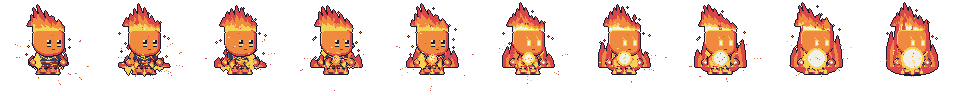
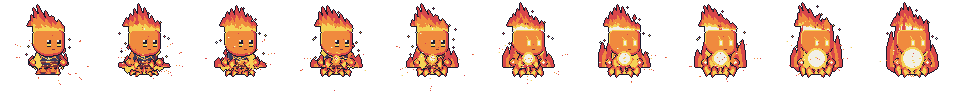
Inferno ragged base + ground glow; live-target preview, client-view test flags, hound concept
Claude-Session: https://claude.ai/code/session_01J8LgTLVYzThXjNSRVhWqep

diff --git a/tools/sprites/hound_concepts.py b/tools/sprites/hound_concepts.py
@@ -1,0 +1,180 @@
+"""Gloom Hound redesign concept: side run frames and front-facing run frames beside Shadow for scale. Nothing is written
+into assets/. Run: tools/sprites/.venv/bin/python tools/sprites/hound_concepts.py [out.png]
+Only palette colours; light from the top left like the fighters (Canvas.part rims lit / shaded edges)."""
+import math
+import sys
+from pathlib import Path
+
+sys.path.insert(0, str(Path(__file__).resolve().parent))
+
+from PIL import Image, ImageDraw  # noqa: E402
+
+import generate as g  # noqa: E402
+from generate import E, L, P, R, Canvas, outline  # noqa: E402
+from palette import OUTLINE, PINK, PINK_L, SHADOW, VIOLET, VIOLET_D, VIOLET_L, WHITE  # noqa: E402
+
+G = 68  # row of the paws (96 px canvas)
+BODY = VIOLET
+FAR = VIOLET_D
+
+
+def dot(c: Canvas, x: float, y: float, col) -> None:
+    x, y = round(x), round(y)
+    if 2 <= x < c.size - 2 and 2 <= y < c.size - 2:
+        c.dot(x, y, col)
+
+
+def side_leg(c: Canvas, hip, ph: float, front: bool, col, paw_col) -> None:
+    swing, lift = math.sin(ph), max(0.0, math.cos(ph))
+    paw = (round(hip[0] + 9 * swing), round(G - 7 * lift))
+    # knee bends forward on the front legs while the foot is back, backwards on the hind legs (a hound's hock)
+    mid = ((hip[0] + paw[0]) / 2, (hip[1] + paw[1]) / 2)
+    bend = (3 if front else -3) * (0.6 + 0.4 * lift)
+    knee = (round(mid[0] + bend), round(mid[1] - 1 - 2 * lift))
+    c.part(L([hip, knee, paw], 3), col)
+    c.flat(R((paw[0] - 1, paw[1] + 1, paw[0] + 3, paw[1] + 1)), paw_col)  # paw
+
+
+def hound_side(phase: float, jaw: int = 0, k: int = 0) -> Canvas:
+    c = Canvas(96)
+    bob = -round(abs(math.sin(phase)) * 1.5)
+    gy = G + bob
+    # smoke streaming off the back and tail, behind everything
+    for i in range(6):
+        dot(c, 24 - i * 3 - (k % 2) * 2, gy - 36 + i * 2 + math.sin(phase + i * 1.4) * 2, (VIOLET_D, VIOLET, PINK_L)[i % 3 if i < 5 else 1])
+    # tail: a long plume streaming back and up, tapering into a wisp
+    tw = round(math.sin(phase) * 2)
+    c.part(L([(24, gy - 27), (17, gy - 31), (12, gy - 38 + tw), (11, gy - 46 + tw)], 4), BODY)
+    c.part(L([(12, gy - 38 + tw), (11, gy - 46 + tw)], 2), VIOLET_L)
+    dot(c, 10, gy - 49 + tw, VIOLET_L)
+    dot(c, 9, gy - 51 + tw, PINK_L)
+    # far legs (darker), then the body, then the near legs
+    side_leg(c, (31, gy - 17), phase + math.pi, False, FAR, OUTLINE)
+    side_leg(c, (59, gy - 17), phase + math.pi + 0.7, True, FAR, OUTLINE)
+    c.part(P([(24, gy - 26), (33, gy - 33), (47, gy - 34), (59, gy - 33), (65, gy - 27), (64, gy - 17), (58, gy - 14),
+              (47, gy - 17), (36, gy - 15), (27, gy - 13), (21, gy - 19)]), BODY)
+    c.part(E((20, gy - 28, 38, gy - 11)), BODY)  # round haunch
+    c.part(E((54, gy - 33, 68, gy - 14)), BODY)  # deep chest
+    # shading: lit back, dithered belly, a lit shoulder and haunch
+    for x in range(30, 62, 2):
+        dot(c, x, gy - 34 + (x // 2) % 2, VIOLET_L)
+    for x in range(30, 60, 2):
+        dot(c, x + (x // 2) % 2, gy - 17, VIOLET_D)
+        dot(c, x, gy - 18, VIOLET_D if (x // 2) % 2 else BODY)
+    c.flat(L([(23, gy - 25), (27, gy - 29)], 1), VIOLET_L)
+    c.flat(L([(57, gy - 30), (62, gy - 28)], 1), VIOLET_L)
+    # mane: jagged spikes down the neck and spine
+    for i, (mx, my) in enumerate(((60, gy - 34), (54, gy - 35), (48, gy - 35), (42, gy - 34))):
+        c.part(P([(mx - 2, my + 1), (mx + 2, my + 1), (mx - 1, my - 4 - i % 2)]), VIOLET_D)
+    side_leg(c, (29, gy - 16), phase, False, BODY, VIOLET_D)
+    side_leg(c, (57, gy - 16), phase + 0.7, True, BODY, VIOLET_D)
+    # neck and head, facing right: long snout, pointed ears, open jaw
+    c.part(P([(56, gy - 34), (66, gy - 38), (70, gy - 28), (62, gy - 22)]), BODY)
+    hy = gy - 32
+    for ex0, ex1 in ((64, 62), (70, 71)):  # two pointed ears
+        c.part(P([(ex0, hy - 4), (ex1, hy - 16), (ex0 + 6, hy - 4)]), BODY)
+    c.flat(L([(65, hy - 6), (64, hy - 11)], 1), VIOLET_L)
+    c.part(P([(63, hy - 5), (72, hy - 7), (79, hy - 3), (88, hy + 1), (88, hy + 4), (79, hy + 6), (68, hy + 6)]), BODY)  # skull + snout
+    c.flat(L([(72, hy - 6), (79, hy - 3), (87, hy)], 1), VIOLET_L)  # lit bridge
+    jd = jaw
+    c.part(P([(70, hy + 5), (86, hy + 4 + jd), (87, hy + 6 + jd), (76, hy + 11 + jd), (68, hy + 8)]), BODY)  # lower jaw
+    c.flat(L([(72, hy + 5), (86, hy + 5 + jd)], 1), OUTLINE)  # mouth line
+    if jaw:
+        for tx in (79, 83):
+            c.dot(tx, hy + 5, WHITE)
+            c.dot(tx + 1, hy + 4 + jd, WHITE)
+    c.flat(R((75, hy - 3, 78, hy - 2)), PINK_L)  # glowing eye: a slit with a white core
+    c.dot(77, hy - 3, WHITE)
+    c.dot(74, hy - 4, VIOLET_L)
+    c.dot(87, hy + 1, VIOLET_L)  # nose
+    return c
+
+
+def hound_front(phase: float, k: int = 0) -> Canvas:
+    c = Canvas(96)
+    bob = -round(abs(math.sin(phase)) * 2)
+    gy = G + bob
+    cx = 48
+    for i in range(5):  # smoke rising off the back
+        dot(c, cx - 14 + i * 7 + math.sin(phase + i) * 2, gy - 44 - (i % 2) * 5 - (k % 2) * 2, (VIOLET, VIOLET_D, PINK_L)[i % 3])
+    c.part(L([(cx - 12, gy - 22), (cx - 20, gy - 32), (cx - 21, gy - 42)], 3), BODY)  # tail behind, up on the left
+    dot(c, cx - 21, gy - 45, VIOLET_L)
+    # hind legs, small and wide behind the chest
+    sw = math.sin(phase)
+    for side, ph in ((-1, phase + math.pi), (1, phase)):
+        lift = max(0.0, math.cos(ph))
+        c.part(L([(cx + side * 12, gy - 17), (cx + side * 15, gy - 9 - lift * 3), (cx + side * 13, gy - 3 - lift * 4)], 3), FAR)
+    # chest and shoulders
+    c.part(P([(cx - 15, gy - 32), (cx + 15, gy - 32), (cx + 17, gy - 14), (cx + 6, gy - 10), (cx - 6, gy - 10), (cx - 17, gy - 14)]), BODY)
+    c.part(E((cx - 14, gy - 34, cx + 14, gy - 16)), BODY)
+    c.flat(L([(cx - 12, gy - 31), (cx - 4, gy - 33)], 1), VIOLET)
+    for x in range(cx - 12, cx + 13, 2):  # dithered belly shade
+        dot(c, x, gy - 12 + (x // 2) % 2, OUTLINE)
+    for i in range(3):  # mane tufts on the shoulders
+        c.part(P([(cx - 15 + i * 3, gy - 31), (cx - 11 + i * 3, gy - 31), (cx - 14 + i * 3, gy - 38)]), VIOLET)
+        c.part(P([(cx + 15 - i * 3, gy - 31), (cx + 11 - i * 3, gy - 31), (cx + 14 - i * 3, gy - 38)]), VIOLET)
+    # front legs reaching alternately toward us
+    for side, ph in ((-1, phase), (1, phase + math.pi)):
+        s, lift = math.sin(ph), max(0.0, math.cos(ph))
+        top = (cx + side * 11, gy - 22)
+        paw = (cx + side * (11 + 2 * lift), round(gy - 2 - 4 * lift + 2 * s))
+        c.part(L([top, (top[0] + side * 2, (top[1] + paw[1]) // 2), paw], 3), BODY)
+        c.flat(R((paw[0] - 2, paw[1] + 1, paw[0] + 2, paw[1] + 1)), VIOLET)
+    # head: wide skull, pointed ears, a short snout pointing at us
+    hy = gy - 42
+    for side in (-1, 1):
+        c.part(P([(cx + side * 4, hy - 7), (cx + side * 12, hy - 20), (cx + side * 13, hy - 5)]), BODY)
+        c.flat(L([(cx + side * 10, hy - 7), (cx + side * 11, hy - 15)], 1), VIOLET_L)
+    c.part(E((cx - 13, hy - 10, cx + 13, hy + 9)), BODY)
+    c.flat(L([(cx - 9, hy - 8), (cx + 2, hy - 9)], 1), VIOLET)
+    c.part(E((cx - 6, hy - 1, cx + 6, hy + 12)), VIOLET_D)  # snout
+    c.flat(R((cx - 2, hy + 1, cx + 1, hy + 2)), VIOLET_L)  # nose
+    c.flat(L([(cx, hy + 4), (cx, hy + 7)], 1), OUTLINE)
+    for side in (-1, 1):  # glowing slanted eyes
+        c.flat(L([(cx + side * 3, hy - 3), (cx + side * 8, hy - 5)], 1), PINK_L)
+        c.dot(cx + side * 6, hy - 4, WHITE)
+    return c
+
+
+def finish(c: Canvas) -> Image.Image:
+    return outline(c.img)
+
+
+def main() -> None:
+    out_path = Path(sys.argv[1]) if len(sys.argv) > 1 else Path("hound_concept.png")
+    sheet = g.Image.open(Path(__file__).resolve().parents[2] / "assets/sprites/shadow.png").convert("RGBA")
+    shadow = sheet.crop((0, 0, 96, 96))
+    cells = [("Shadow", shadow, None)]
+    for k in range(4):
+        cells.append((f"run {k + 1}", finish(hound_side(math.tau * k / 6 * 1.5, jaw=0, k=k)), "side"))
+    cells.append(("bite", finish(hound_side(0.9, jaw=5)), "side"))
+    for k in range(2):
+        cells.append((f"front {k + 1}", finish(hound_front(math.tau * k / 2, k=k)), "front"))
+    S = 8
+    box = (6, 14, 92, 76)  # crop 86 x 62
+    w, h = box[2] - box[0], box[3] - box[1]
+    bg = (58, 64, 74)
+    img = Image.new("RGB", (len(cells) * w * S // 2, h * S // 2 * 2 + 40), bg)
+    # two rows of 4 cells at 8x would be huge, so lay them out in 2 rows
+    cols = 4
+    rows = (len(cells) + cols - 1) // cols
+    img = Image.new("RGB", (cols * w * S, rows * (h * S + 24)), bg)
+    d = ImageDraw.Draw(img)
+    for i, (label, im, kind) in enumerate(cells):
+        x0, y0 = (i % cols) * w * S, (i // cols) * (h * S + 24)
+        layer = Image.new("RGBA", (96, 96), bg + (255,))
+        shade = Image.new("RGBA", (96, 96), (0, 0, 0, 0))
+        sd = ImageDraw.Draw(shade)
+        feet = 66 if kind is None else G + 1
+        rx, ry = (13, 5) if kind != "side" else (22, 5)
+        sd.ellipse((48 - rx, feet - ry + 2, 48 + rx, feet + ry + 2), fill=(0, 0, 0, 77))  # the fighters' soft 0.3 ellipse
+        layer.alpha_composite(shade)
+        layer.alpha_composite(im)
+        img.paste(layer.convert("RGB").crop(box).resize((w * S, h * S), Image.NEAREST), (x0, y0))
+        d.text((x0 + 6, y0 + h * S + 4), label, fill=(255, 230, 120))
+    img.save(out_path)
+    print("wrote", out_path)
+
+
+if __name__ == "__main__":
+    main()

diff --git a/tools/sprites/generate.py b/tools/sprites/generate.py
@@ -726,6 +726,7 @@ def flint(step=None, t=0, heat=0.0):
         low.part(E((32 - rx, 49 - ry, 32 + rx, 49 + ry)), RED, shade=False, line=False)
         flame(low, 7, 57, 50, round(34 * heat), t, tongues=7, line=False)
         flame(low, 14, 50, 50, round(46 * heat), t + 1, tongues=5, line=False)
+        flint_ragged_base(low, t, heat)
     for k, (x, dy) in enumerate(legs(low, ORANGE if hot else RED, RED, step)):  # molten legs and feet, on fire too
         low.flat(R((x + 2, 46 + dy, x + 3, 52 + dy)), YELLOW if hot else ORANGE)  # glowing inside
         low.flat(R((x + 2, 47 + dy, x + 2, 51 + dy)), crack)  # a vein of fire down each
@@ -736,6 +737,13 @@ def flint(step=None, t=0, heat=0.0):
                      shade=False, line=False)
             low.part(P([(fx - 1, 57 + dy), (fx, 58 + dy - h + 1), (fx + 1, 57 + dy)]), YELLOW if h > 5 else ORANGE,
                      shade=False, line=False)
+    if heat > 0:  # licks of fire curling up round his legs, out of step
+        for k, (root, ctrl, tip, side) in enumerate((((21, 57), (15, 51), (21, 43), 1), ((27, 58), (23, 53), (28, 46), 1),
+                                                     ((37, 58), (41, 53), (36, 46), 1), ((43, 57), (49, 51), (43, 43), 1))):
+            sh = (0.7 + 0.3 * ((t + k) % 2)) * heat
+            flame_tongue(low, root, [root[0] + (ctrl[0] - root[0]) * sh, root[1] + (ctrl[1] - root[1]) * sh],
+                         [root[0] + (tip[0] - root[0]) * sh, root[1] + (tip[1] - root[1]) * sh], (t + k * 2) * math.pi / 2,
+                         wide=2.4 + heat)
     up = Canvas()
 
     def fist(cx, k):  # a ball of fire for a hand, its flame licking up and flickering every tick
@@ -818,6 +826,44 @@ def flint(step=None, t=0, heat=0.0):
         big_eyes(up, EYES_Y, EYES_X, YELLOW)
     up.flat(R((MOUTH[0] - 1, MOUTH[1] + 1, MOUTH[0] + 1, MOUTH[1] + 1)), MAROON)  # little grin
     return low, up
+
+
+def flint_ragged_base(c: Canvas, t: int, heat: float) -> None:
+    """Inferno's blaze doesn't sit on a ruler-straight edge: notches are cut up into its underside between tongues of
+    different lengths (a few flicker every tick), so the bottom is uneven and the fire reads as growing from the floor."""
+    px = c.img.load()
+    tongues = [(7 + k * 4.3 + ((k * 5) % 3 - 1), (5, 2, 4, 1, 5, 3, 2, 5, 1, 4, 3, 2, 5)[k % 13]) for k in range(13)]
+    for x in range(c.size):
+        reach = 0.0
+        for cx, h in tongues:
+            hh = h * (0.75 + 0.25 * ((t + int(cx)) % 2))
+            reach = max(reach, hh * (1 - abs(x - cx) / 2.6))
+        top = 59 - round(reach)  # from here down the underside is cut away, tongues hang to 59
+        for y in range(max(top, 53), c.size):
+            if px[x, y][3]:
+                px[x, y] = (0, 0, 0, 0)
+
+
+def flint_ground_glow(t: int, heat: float = 1.0) -> Canvas:
+    """Under Inferno Flint (CELL canvas, laid UNDER his outlined sprite, no outline of its own): a dithered pool of firelight
+    fading into the ground (hot orange / red / maroon, flickering with `t`), with a few embers dropping off the base."""
+    c = Canvas(CELL)
+    gx, gy = CELL // 2, PAD + 57
+    rx, ry = 33 * heat, 10 * heat
+    if heat > 0.05:
+        for y in range(gy - 10, gy + 14):
+            for x in range(gx - 36, gx + 37):
+                r = ((x - gx) / rx) ** 2 + ((y - gy) / ry) ** 2
+                if r >= 1.0:
+                    continue
+                k = 1 - r + 0.12 * math.sin(x * 0.7 + t * 1.57)  # brightness, flickering
+                if BAYER[y % 4][x % 4] / 16 < k * 1.0 - 0.05:
+                    c.px[x, y] = (ORANGE if k > 0.7 else RED if k > 0.4 else MAROON) + (255,)
+        for k in range(5):  # embers lifting off the base and dying out
+            ph = (t + k * 3) % 4
+            ex = gx - 24 + k * 12 + (k * 7) % 5 + SWAY[(t + k) % 4]
+            c.dot(ex, gy + 1 - 3 * ph - (k % 2) * 2, (YELLOW, ORANGE, RED, MAROON)[ph])
+    return c
 
 
 def flint_burn(x: int, y: int) -> float:
@@ -923,7 +969,9 @@ def flint_inferno_morph() -> Image.Image:
         f.alpha_composite(up.img, (0, UPPER_DY))
         cell_img = flint_crown(k % 4, 0, h).img
         cell_img.alpha_composite(f, (PAD, PAD))
-        img = outline(cell_img)
+        under = flint_ground_glow(k % 4, h).img
+        under.alpha_composite(outline(cell_img))
+        img = under
         ov = Canvas(CELL)
         cx, cy = CELL // 2, PAD + 40
         spark_cloud(ov, 29, int(10 + 30 * h), k, lambda r: (cx + r.uniform(-12, 12), cy + r.uniform(-4, 16)), (0.8, 2.6),
@@ -4046,6 +4094,7 @@ AURAS = {"wukong": wukong_clouds, "wukong_ape": ape_storm, "flint": flint_embers
          "flint_inferno": flint_inferno_aura}
 ## Optional per-frame art above the 64 px box (tall hair, flames), drawn on the CELL behind the frame:
 ## fn(tick, head_dy) -> Canvas(CELL). Not on death frames.
+GROUND_GLOWS = {"flint_inferno": flint_ground_glow}  # optional floor glow laid under each frame
 CROWNS = {"flicker": flicker_topknot, "flint": flint_crown, "flint_inferno": lambda t, dy: flint_crown(t, dy, 1.0)}  # optional per-frame effects drawn behind
 HITS = {}  # per-character hit frames: fn(idle frame 0) -> 2 frames (default: white flash, then one step lighter)
 DEATHS = {}  # per-character death frames: fn() -> 8 CELL frames (default: death_frames)
@@ -5063,7 +5112,7 @@ def recolor(img: Image.Image, fn) -> Image.Image:
     return out
 
 
-def frames(build, aura=None, crown=None) -> list[Image.Image]:
+def frames(build, aura=None, crown=None, ground=None) -> list[Image.Image]:
     """Idle, hit and walk frames: SIZE px, or CELL px with `crown` (CROWNS) composited behind before the
     single outline pass, so the crown and body share one silhouette with no line between them."""
     def frame(step, dy, i):
@@ -5075,6 +5124,10 @@ def frames(build, aura=None, crown=None) -> list[Image.Image]:
             out = crown(i, dy).img
             out.alpha_composite(f, (PAD, PAD))
             f = out
+        if ground:  # a glow on the floor under the outlined sprite (no outline of its own)
+            under = ground(i).img
+            under.alpha_composite(outline(f))
+            return under
         return outline(f)
 
     idle = [frame(None, dy, i) for i, dy in enumerate(IDLE_BOB)]
@@ -6918,7 +6971,7 @@ def main() -> None:
     OUT.mkdir(parents=True, exist_ok=True)
     for name, build in (CHARACTERS | FORMS).items():
         if name in CROWNS:
-            fs = frames(build, AURAS.get(name), CROWNS[name])
+            fs = frames(build, AURAS.get(name), CROWNS[name], GROUND_GLOWS.get(name))
         else:
             fs = [cell(f) for f in frames(build, AURAS.get(name))]
         if name in HITS:

diff --git a/CLAUDE.md b/CLAUDE.md
@@ -100,7 +100,7 @@ A mobile real-time PvP arena shooter. Combat feel is inspired by top-down roguel
   then `godot --path . --headless --import`
 
 ## Status
-- **Ability transitions** (2026-11-01, `ability-transitions`, cosmetic only): Petal Drift dissolve / reform are now 24 frames at 60 fps (`DISSOLVE_STRIP_FRAMES`, generate.py `DISSOLVE_FRAMES`, `drift_plan`): her outline (hair, hem, hands) peels off first, each chunk carries its own pixels, bulges outward, crumbles into a petal and spirals into its swirl slot; the reform is that backwards. The swirl loops a whole number of times between the two (`_draw_drift`), so it ends on the frame the reform starts on; facing / heading and lean ease over the dissolve and reform instead of snapping; a drift cut short (stun) reforms from the same frame. Her sprite fades out under the first dissolve frame and fades in under the reform's last `REFORM_FADE` (`SpecialFx.owner_alpha`). Every held weapon now fades out / in over `Player.GUN_FADE_TIME` when a pose replaces him (`_gun_fade`, `_gun_suppressed`) instead of popping. `SpecialFx.process_priority` -100 fixes a one-frame blank when a pose ended (the Player read stale state). Follow-ups: the dissolve erodes over the whole strip (~5% of her pixels per frame, `drift_plan` start times 0.02..0.62, chunk pixels dither away over the full run); going ghostly (i-frames, hidden in smoke) eases via `Player._ghost_a` (`GHOST_FADE_TIME`) instead of jumping 1 -> 0.45; Flare Burst's charge pose fades out over the ring's flash (`FLARE_FADE_OUT`); the Blossom Ward floor glow fades after it ends (`WARD_GLOW_FADE`); Leaf Gust fades over its last 0.12 s. Preview tool: `tools/transition_preview.gd` (char= special= move= aim= press=, see its header).
+- **Ability transitions** (2026-11-01, `ability-transitions`, cosmetic only): Petal Drift dissolve / reform are now 24 frames at 60 fps (`DISSOLVE_STRIP_FRAMES`, generate.py `DISSOLVE_FRAMES`, `drift_plan`): her outline (hair, hem, hands) peels off first, each chunk carries its own pixels, bulges outward, crumbles into a petal and spirals into its swirl slot; the reform is that backwards. The swirl loops a whole number of times between the two (`_draw_drift`), so it ends on the frame the reform starts on; facing / heading and lean ease over the dissolve and reform instead of snapping; a drift cut short (stun) reforms from the same frame. Her sprite fades out under the first dissolve frame and fades in under the reform's last `REFORM_FADE` (`SpecialFx.owner_alpha`). Every held weapon now fades out / in over `Player.GUN_FADE_TIME` when a pose replaces him (`_gun_fade`, `_gun_suppressed`) instead of popping. `SpecialFx.process_priority` -100 fixes a one-frame blank when a pose ended (the Player read stale state). Follow-ups: the dissolve erodes over the whole strip (~5% of her pixels per frame, `drift_plan` start times 0.02..0.62, chunk pixels dither away over the full run); going ghostly (i-frames, hidden in smoke) eases via `Player._ghost_a` (`GHOST_FADE_TIME`) instead of jumping 1 -> 0.45; Flare Burst's charge pose fades out over the ring's flash (`FLARE_FADE_OUT`); the Blossom Ward floor glow fades after it ends (`WARD_GLOW_FADE`); Leaf Gust fades over its last 0.12 s. Inferno's blaze base is ragged (`flint_ragged_base`: notches cut up between tongues of different lengths, licks curling up round his legs) over a dithered ground glow with embers laid under the outlined sprite (`flint_ground_glow`, `GROUND_GLOWS`, also on the morph strip). Test-only flags for previews: `--press-special S` (autopilot presses the special every S seconds even with nobody in sight) and `--passive` (an autopilot that stands still), used to record a client's view of a host's Petal Drift / Great Ape / Smoke Bomb. Preview tool: `tools/transition_preview.gd` (char= special= move= aim= press= target= edge=, see its header); Gloom Hound redesign concept: `tools/sprites/hound_concepts.py` (concept only, not in the game yet).
 - **Bug sweep 2** (2026-11-01, `bug-sweep-2`): a special/skill button held (or tapped) while dead no longer fires on the respawn frame (`Player.simulate` keeps `_prev_skills` current while dead); `MatchController.remove_player(id, scores, humans)` ends a running match when no human is left in it (bots alone, spectator waiting; `MatchRules.has_human`); a listen-server host takes one of the `MAX_CLIENTS` seats (`NetSession.start_server(..., max_clients)`, host passes `MAX_CLIENTS - 1`: a fifth human could connect but never start); snapshots go out as one packet per `SNAPSHOT_PLAYERS_PER_PACKET` (2) players sharing a tick (`NetServer.snapshot_packets`; ~440 B per player, a 4-player snapshot was 1.8 KB, above ENet's MTU 1392 and fragmented; `NetClient.on_snapshot` merges packets of one tick; `LanDiscovery.VERSION` 2); `tools/balance_sim.gd` no longer leaks an `Arena` that never entered the tree (that was the exit "RID leaked / resources still in use" warning: an `Arena` only parents its crates / pickups / projectiles in `_ready`, so one freed outside the tree leaks them; a normal game exit with `--verbose` is clean). Tests: `tests/test_sweep2.gd`, `tests/test_match.gd`. Known, not fixed: the server prints "Unable to send packet on channel N" when two clients vanish in the same poll (rpc to a peer ENet already dropped).
 - **Playtest UI + FFA fixes** (2026-11-01, `ui-lockon-ffa`): auto-aim reticle is now four corner brackets (yellow, 1 px dark outline, `Effects._draw_aim_marker`) that ease in from a wider box on each new lock then pulse, sized by the target's `form_scale` (`Effects.aim_scale`); title fighters moved to the sides (`TitleBackdrop.TEAM_INNER_X` 270, drawn at `FIGHTER_SCALE` 0.75) so no menu button covers them (checked 2532x1170 and 1334x750); lobby Mode/Arena buttons grow to fit their text (no more "Arena: Found..."); bots now target every other fighter including bots (FFA, no teams: `BotBrain.hunts_bots` removed; test `test_bot_can_target_another_bot`).
 - **Respawn + pickups + stun edge cases** (2026-11-01, `respawn-pickups`): spawn protection is now `PlayerStats.spawn_protect` (`RESPAWN_IFRAME_TIME` 1.5 s, synced as `StateField.SPAWN_PROTECT`, ends on your first shot, also on replay; dash i-frames stay separate): sprite flickers (faster for the last 0.4 s) with a cool shimmer plus a pulsing floor ring, `Player.spawned` -> `Effects.spawn_pop` (floor ring + sparkles) + `spawn` chime + small shake. Energy pickups are back (`E` in layouts; `W` still ignored, one-weapon design): `arena/pickup_field.gd` (`PickupField`: +`ENERGY_PICKUP_AMOUNT` 80, `PICKUP_RESPAWN` 12 s, only when energy < max, authority collects, `rpc_pickups` mirrors `Vector2(timer, collector)` per spot; clients count down locally): bobbing crystal + glow, pad dims while empty with a filling ring + seconds, pop-in ring when back, burst + floating "+80" + `pickup` / `pickup_ready` sounds. New pad/crystal art (generate.py `pickup_art`). A stun now ends Staff Whirl, Petal Drift (and its i-frames) and Shadow Step (surfaces on free floor, no strike) in the shared sim (`Player._interrupt_channels`). Tests: `tests/test_respawn_pickups.gd`; preview `tools/respawn_preview.gd` (`window/size/viewport_width/height` in override.cfg give 2532x1170 movie frames; movie frame = 2 physics frames).
